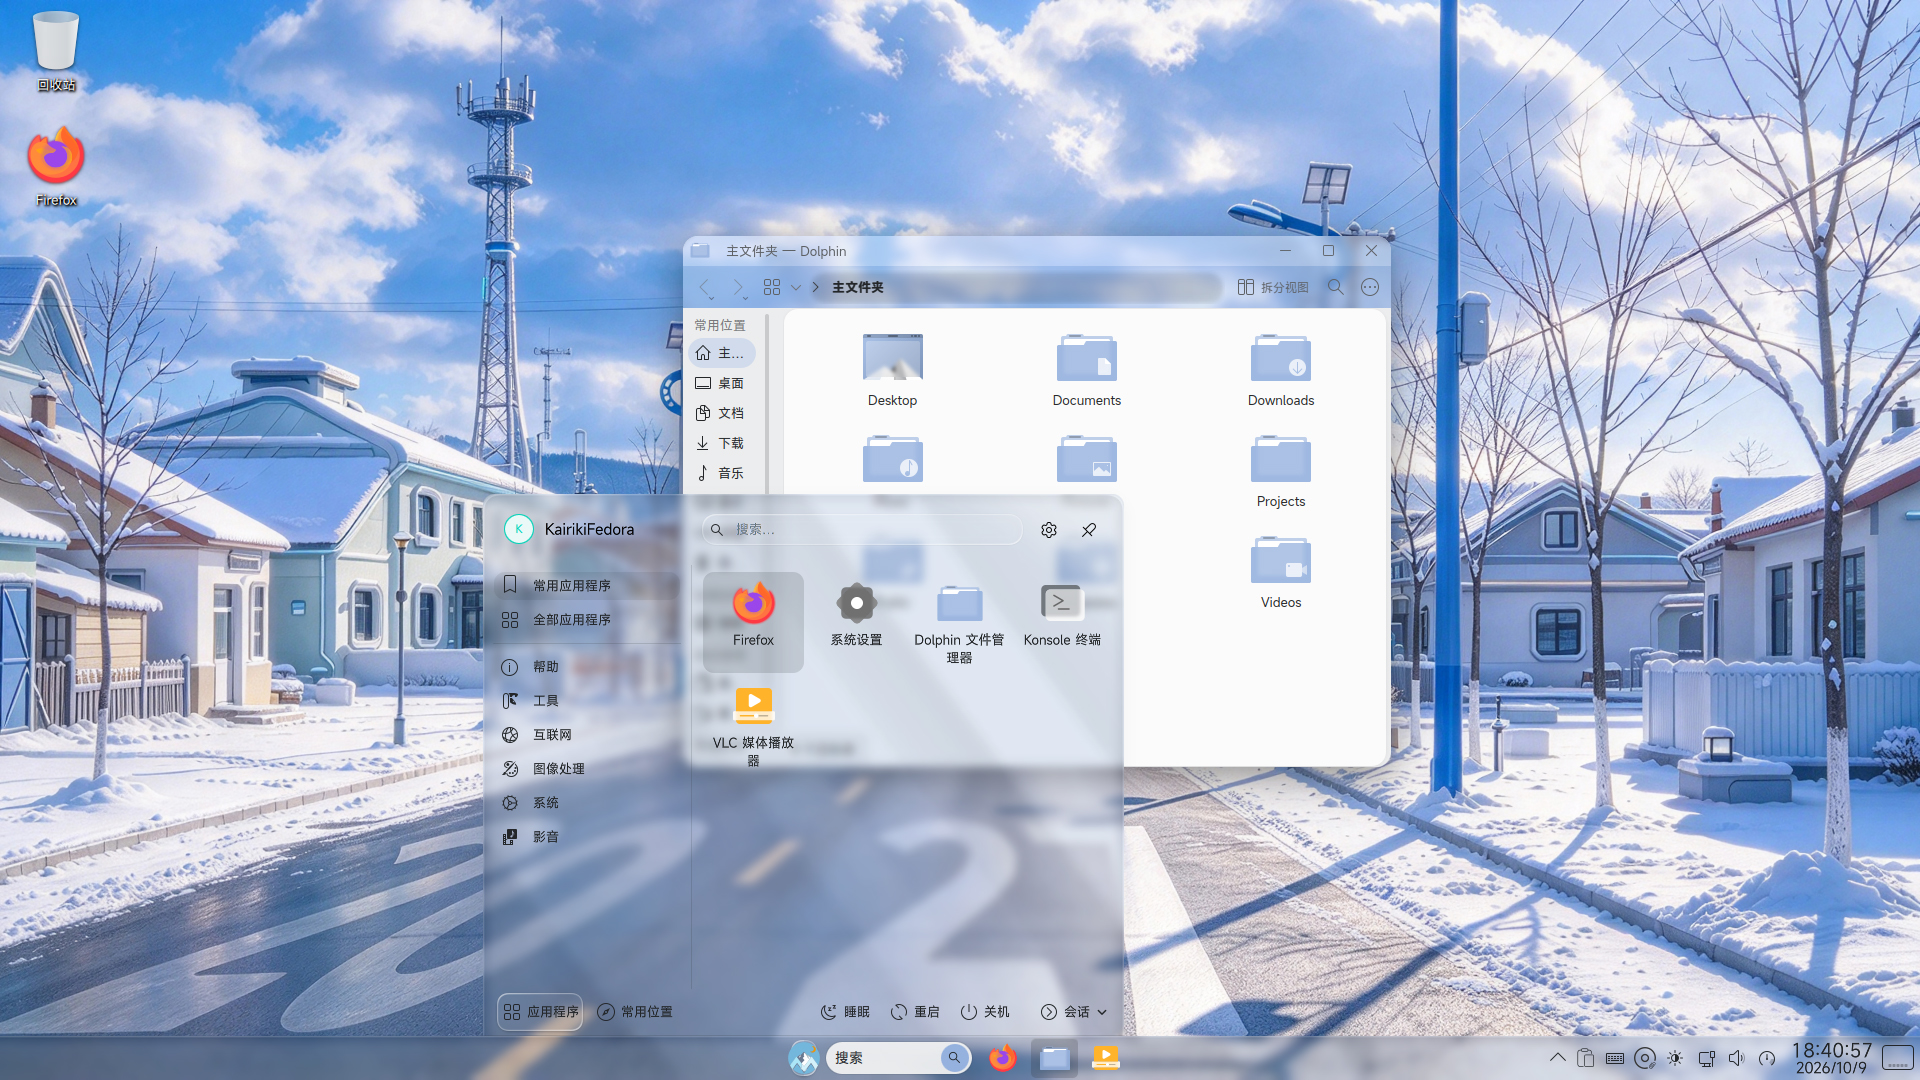
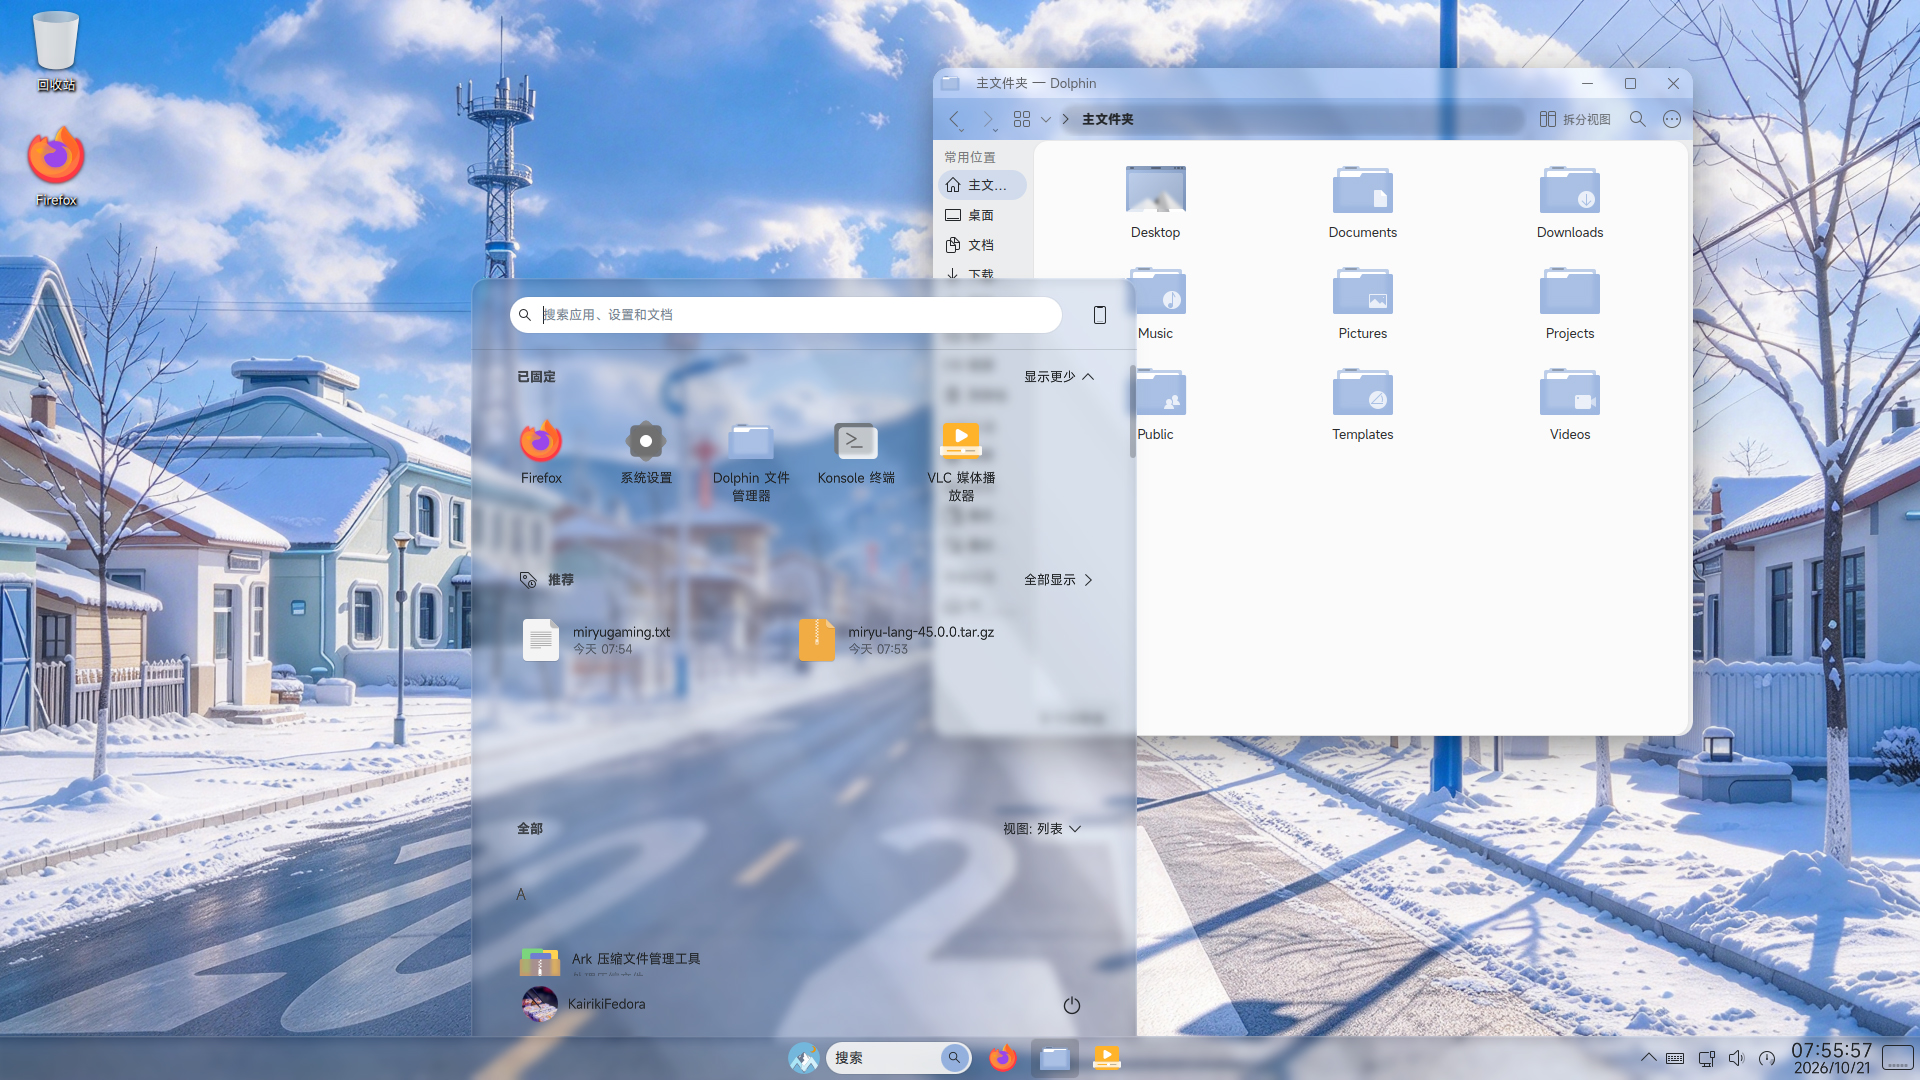
Update Start Menu

diff --git a/usr/share/plasma/look-and-feel/evernight-vista-harmony-dark/contents/layouts/org.kde.plasma.desktop-layout.js b/usr/share/plasma/look-and-feel/evernight-vista-harmony-dark/contents/layouts/org.kde.plasma.desktop-layout.js
@@ -42,7 +42,7 @@ if (geo.width > maximumWidth) {
     panel.maximumLength = maximumWidth;
 }
 
-var kickoff = panel.addWidget("org.kde.plasma.kickoff.skyler")
+var kickoff = panel.addWidget("org.miryugaming.start")
 kickoff.writeConfig("favorites", ["preferred://browser", "systemsettings.desktop", "org.kde.dolphin.desktop", "org.kde.konsole.desktop", "vlc.desktop"])
 
 panel.addWidget("com.mcc45tr.filesearch")

diff --git a/usr/share/plasma/look-and-feel/evernight-vista-harmony/contents/layouts/org.kde.plasma.desktop-layout.js b/usr/share/plasma/look-and-feel/evernight-vista-harmony/contents/layouts/org.kde.plasma.desktop-layout.js
@@ -42,7 +42,7 @@ if (geo.width > maximumWidth) {
     panel.maximumLength = maximumWidth;
 }
 
-var kickoff = panel.addWidget("org.kde.plasma.kickoff.skyler")
+var kickoff = panel.addWidget("org.miryugaming.start")
 kickoff.writeConfig("favorites", ["preferred://browser", "systemsettings.desktop", "org.kde.dolphin.desktop", "org.kde.konsole.desktop", "vlc.desktop"])
 
 panel.addWidget("com.mcc45tr.filesearch")

diff --git a/usr/share/plasma/look-and-feel/evernight-vista-dark/contents/layouts/org.kde.plasma.desktop-layout.js b/usr/share/plasma/look-and-feel/evernight-vista-dark/contents/layouts/org.kde.plasma.desktop-layout.js
@@ -43,7 +43,7 @@ if (geo.width > maximumWidth) {
 }
 
 panel.addWidget("org.kde.plasma.panelspacer")
-var kickoff = panel.addWidget("org.kde.plasma.kickoff.skyler")
+var kickoff = panel.addWidget("org.miryugaming.start")
 kickoff.writeConfig("favorites", ["preferred://browser", "systemsettings.desktop", "org.kde.dolphin.desktop", "org.kde.konsole.desktop", "vlc.desktop"])
 
 

diff --git a/usr/share/plasma/look-and-feel/evernight-vista/contents/layouts/org.kde.plasma.desktop-layout.js b/usr/share/plasma/look-and-feel/evernight-vista/contents/layouts/org.kde.plasma.desktop-layout.js
@@ -43,7 +43,7 @@ if (geo.width > maximumWidth) {
 }
 
 panel.addWidget("org.kde.plasma.panelspacer")
-var kickoff = panel.addWidget("org.kde.plasma.kickoff.skyler")
+var kickoff = panel.addWidget("org.miryugaming.start")
 kickoff.writeConfig("favorites", ["preferred://browser", "systemsettings.desktop", "org.kde.dolphin.desktop", "org.kde.konsole.desktop", "vlc.desktop"])
 
 

diff --git a/usr/share/plasma/look-and-feel/evernight-vista-classic-dark/contents/layouts/org.kde.plasma.desktop-layout.js b/usr/share/plasma/look-and-feel/evernight-vista-classic-dark/contents/layouts/org.kde.plasma.desktop-layout.js
@@ -42,7 +42,7 @@ if (geo.width > maximumWidth) {
     panel.maximumLength = maximumWidth;
 }
 
-var kickoff = panel.addWidget("org.kde.plasma.kickoff.skyler")
+var kickoff = panel.addWidget("org.miryugaming.start")
 kickoff.writeConfig("favorites", ["preferred://browser", "systemsettings.desktop", "org.kde.dolphin.desktop", "org.kde.konsole.desktop", "vlc.desktop"])
 
 

diff --git a/usr/share/plasma/look-and-feel/evernight-vista-classic/contents/layouts/org.kde.plasma.desktop-layout.js b/usr/share/plasma/look-and-feel/evernight-vista-classic/contents/layouts/org.kde.plasma.desktop-layout.js
@@ -42,7 +42,7 @@ if (geo.width > maximumWidth) {
     panel.maximumLength = maximumWidth;
 }
 
-var kickoff = panel.addWidget("org.kde.plasma.kickoff.skyler")
+var kickoff = panel.addWidget("org.miryugaming.start")
 kickoff.writeConfig("favorites", ["preferred://browser", "systemsettings.desktop", "org.kde.dolphin.desktop", "org.kde.konsole.desktop", "vlc.desktop"])
 
 

diff --git a/usr/share/plasma/layout-templates/evernight-vista-panel/contents/layout.js b/usr/share/plasma/layout-templates/evernight-vista-panel/contents/layout.js
@@ -45,7 +45,7 @@ if (panel.formFactor === "horizontal") {
 }
 
 panel.addWidget("org.kde.plasma.panelspacer")
-var kickoff = panel.addWidget("org.kde.plasma.kickoff.skyler")
+var kickoff = panel.addWidget("org.miryugaming.start")
 panel.addWidget("com.mcc45tr.filesearch")
 
 //panel.addWidget("org.kde.plasma.showActivityManager")
